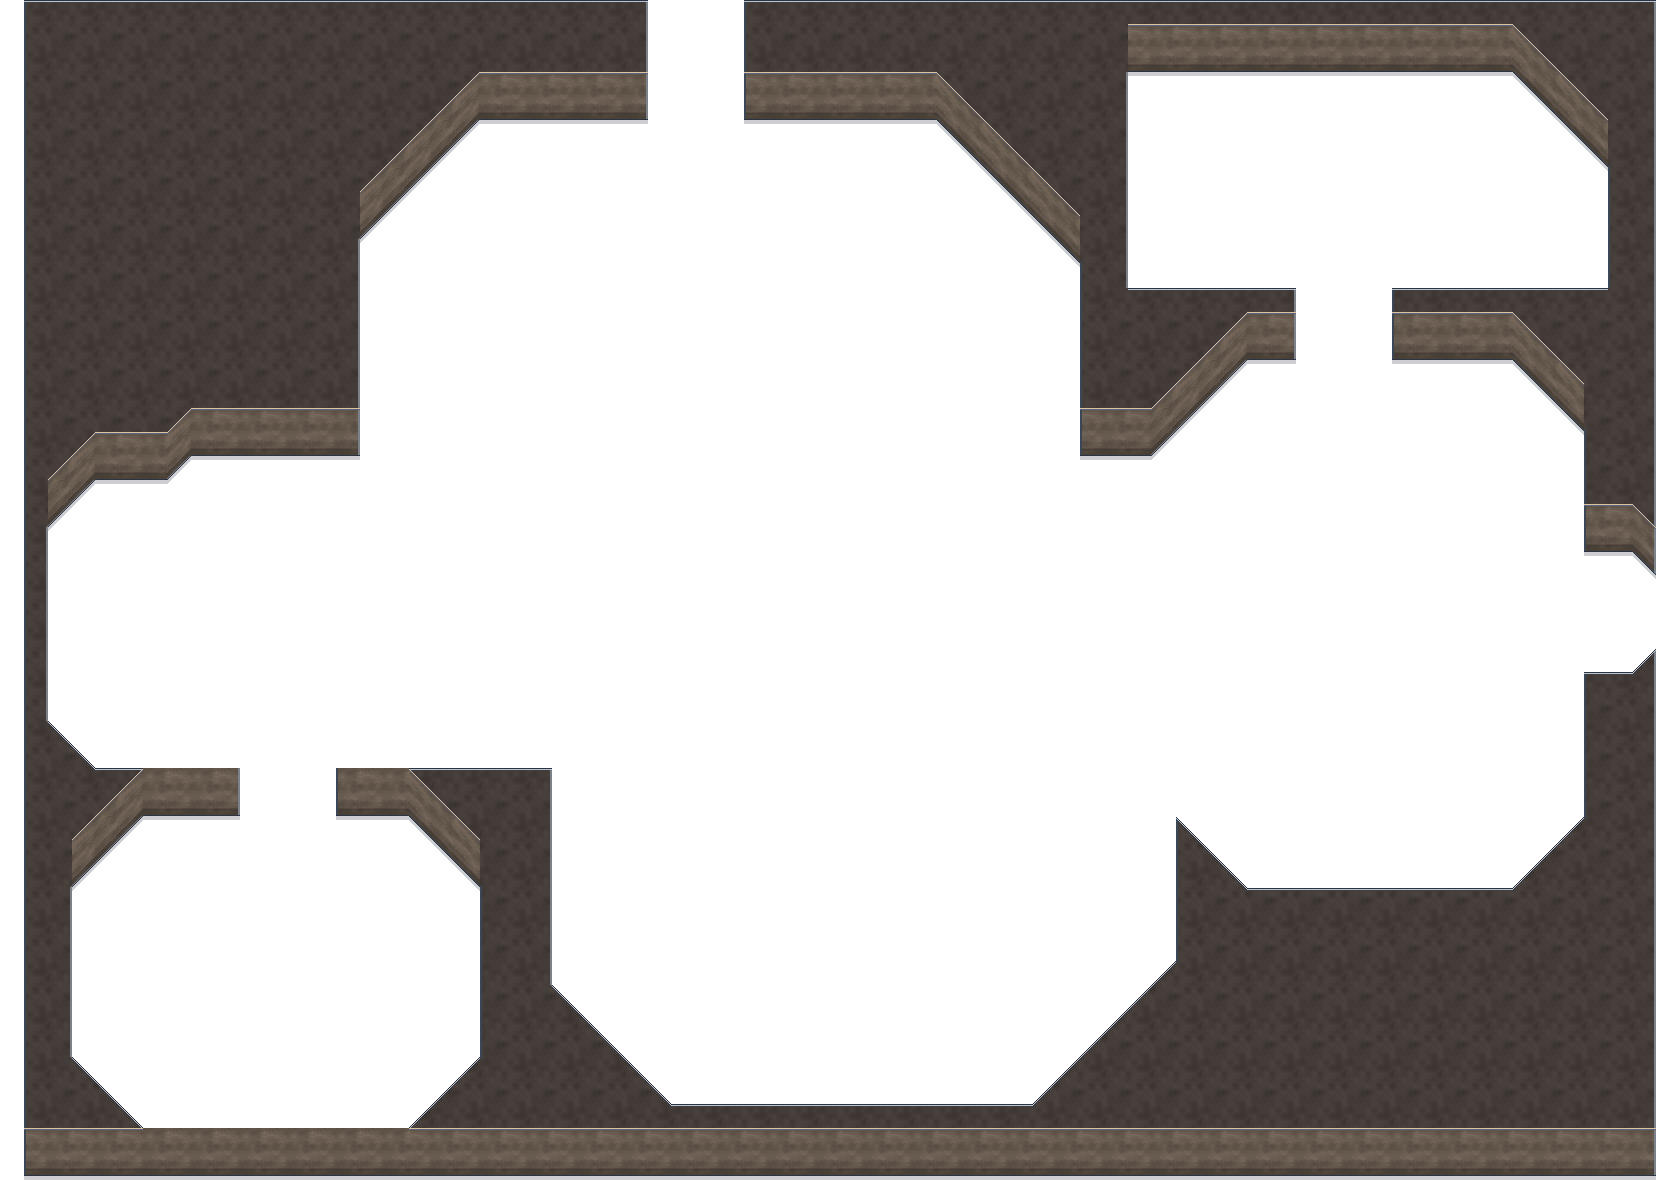
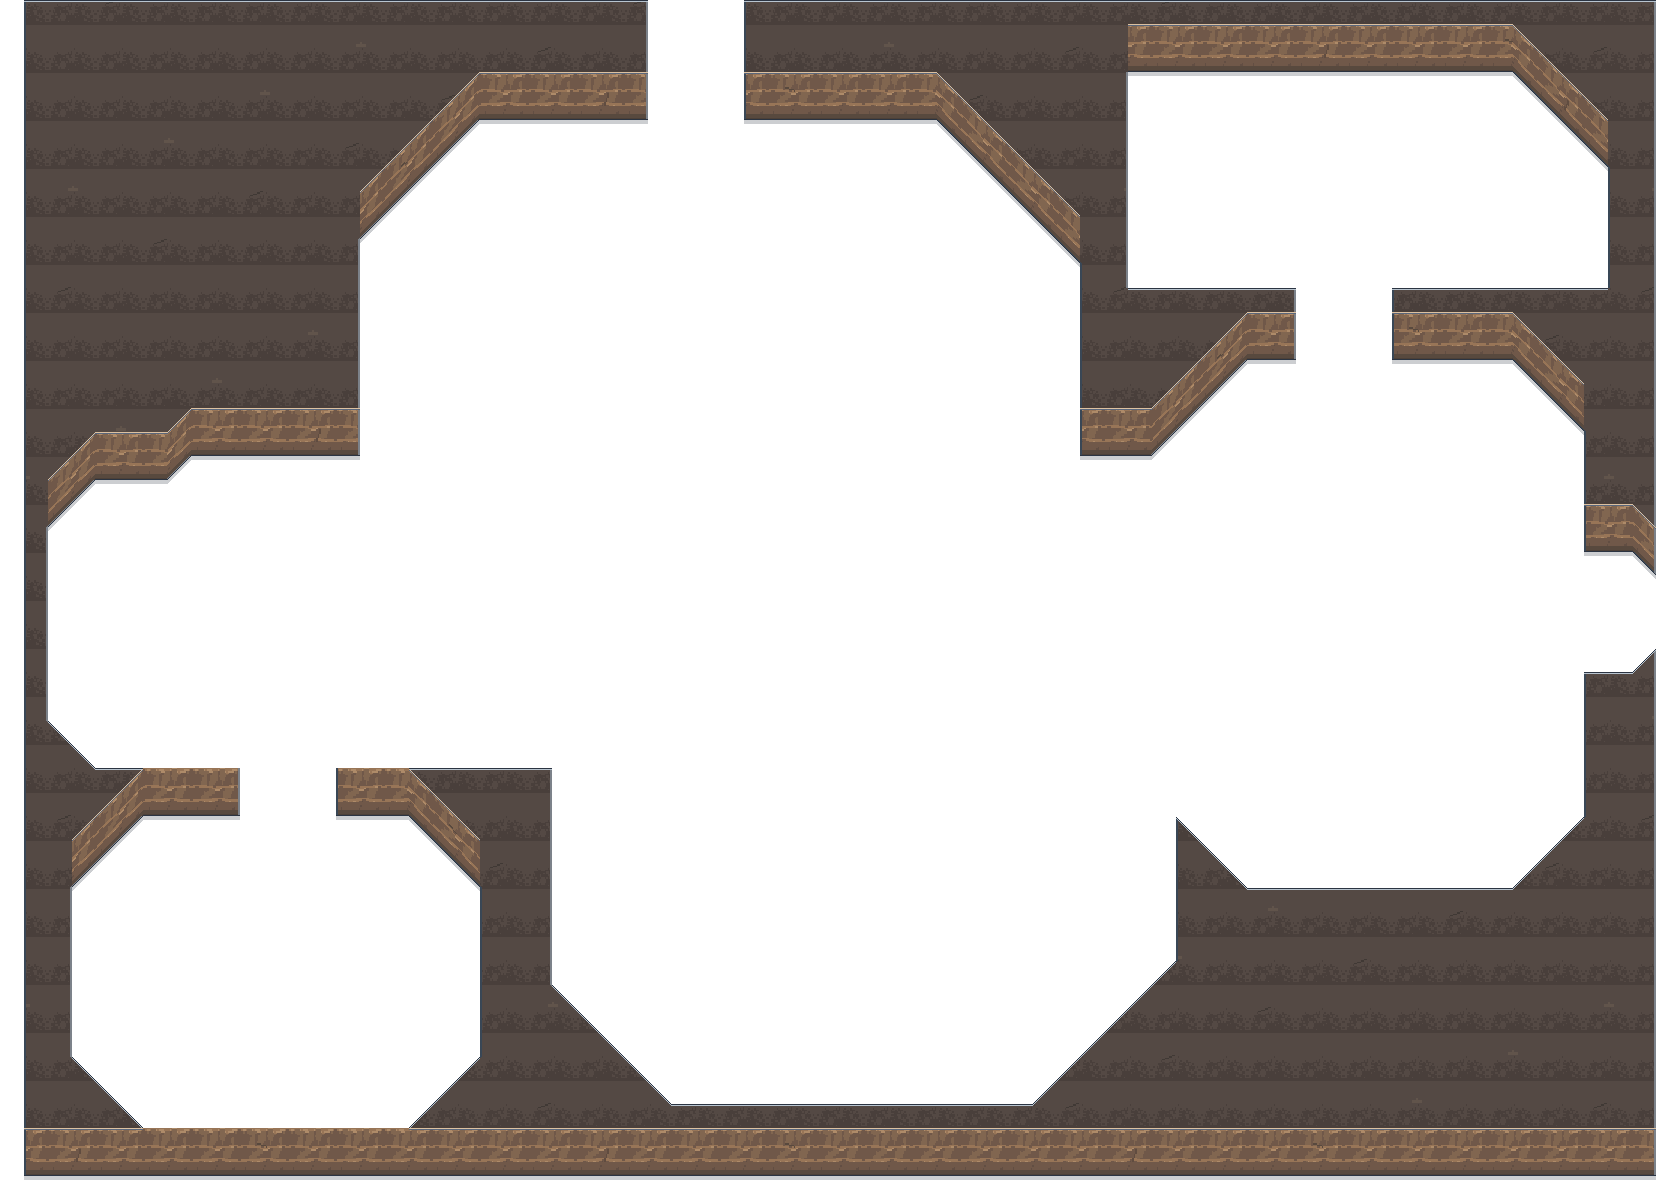
Install shale faces and rock caps in the mine

diff --git a/tools/bake_floor.py b/tools/bake_floor.py
@@ -655,11 +655,12 @@ def bake_walls(key, rows, art_dir, window=None, sigma=15.0, style="facet"):
     mat_roof = np.asarray(Image.open(os.path.join(art_dir, roof_name + ".png")).convert("RGB"), dtype=np.float32) / 255.0
     mat_wall = np.asarray(Image.open(os.path.join(art_dir, wall_name + ".png")).convert("RGB"), dtype=np.float32) / 255.0
     plain = key == "main" or key in SECTOR_WALLS                                   # sector materials are used as painted, no tints
+    varied_walls = key in ("main", "eng", "bay", "mine")
     # roof: the material, tinted by roof plate
     zone = ROOF_ZONE_FN[key](xx / float(PX), (yy + PX) / float(PX)) if key in ROOF_ZONE_FN else _roof_zone(key, xx // PX, (yy + PX) // PX)
     tint = np.stack([hexc(h) for h in (["ffffff"] * 4 if plain else ROOF_TINTS)])[zone % 4]
     rc = _tex_lookup(mat_roof, yy + PX, xx) * tint
-    if key in ("main", "eng", "bay"):
+    if varied_walls:
         indices = ((xx // (2*PX))*7 + ((yy+PX) // (2*PX))*3) % 11
         for index, suffix in ((3, "_a"), (8, "_b")):
             mask = roof & (indices == index)
@@ -679,7 +680,7 @@ def bake_walls(key, rows, art_dir, window=None, sigma=15.0, style="facet"):
         wing = face & (by >= 62*PX)
         steel = np.asarray(Image.open(os.path.join(art_dir, "hotel/exposed_steel_mix.png"))) / 255.
         fc[wing] = steel[v[wing], xx[wing] % steel.shape[1]]
-    if key in ("main", "eng", "bay"):
+    if varied_walls:
         indices = ((xx // (2*PX))*7 + (by // PX)*3) % 11
         for index, suffix in ((3, "_a"), (8, "_b")):
             mask = face & (indices == index)

diff --git a/tools/caves.py b/tools/caves.py
@@ -173,7 +173,8 @@ def build(g):
                                       'h': ('eng_floor_tech', ('8a7ab0', .2)), 'R': ('mine_path', ('6a5a4c', .35))}
     bake_floor.AREA_FLOORS['tunnels'] = {'m': ('mine_rock', ('3a3850', .2)), 'u': ('mine_path', ('3a3850', .2)),
                                          'o': ('mine_rock', ('5a4030', .35)), 'R': ('mine_path', ('6a5a4c', .35))}
-    bake_floor.SECTOR_WALLS['mine'] = bake_floor.SECTOR_WALLS['tunnels'] = ('mine_roof', 'mine_wall')
+    bake_floor.SECTOR_WALLS['mine'] = ('mine/roof', 'mine/wall')
+    bake_floor.SECTOR_WALLS['tunnels'] = ('mine_roof', 'mine_wall')
     g['CAVE_NODES'], g['CAVE_ENEMIES'] = nodes, enemies
     g['MINE_SPOTS'] = {'job': (55, 22), 'zaas': (9, 40), 'vzzket': (8, 27), 'ixali': (11, 28)}
     for who, (x, y) in g['MINE_SPOTS'].items():
